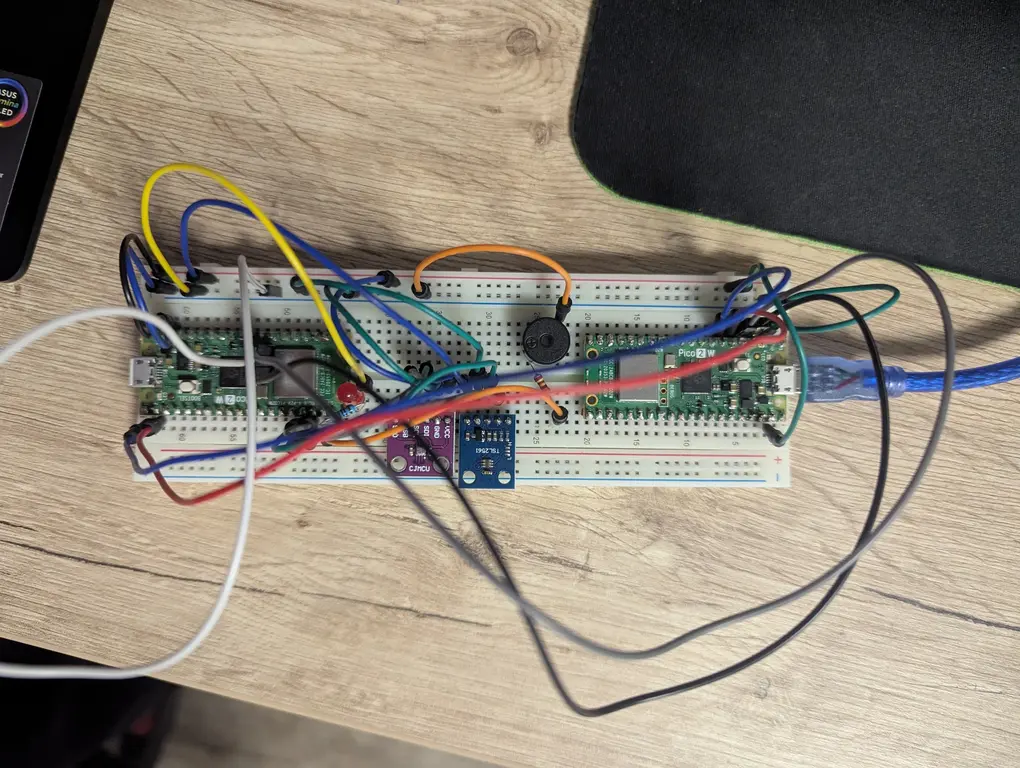
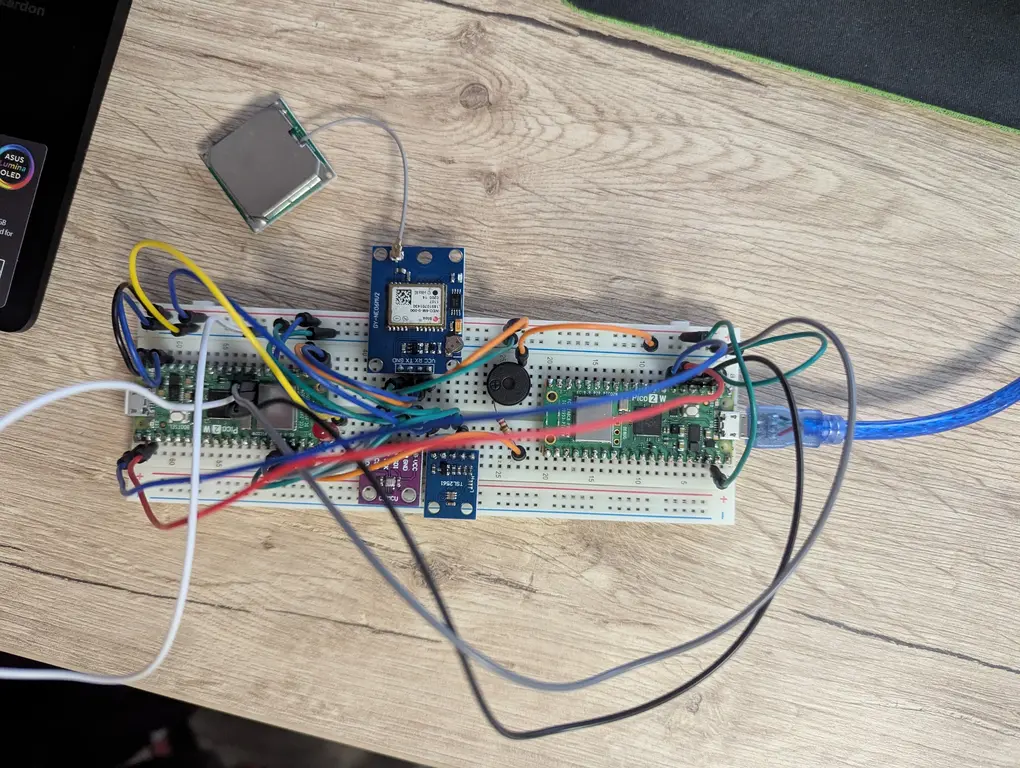
Add GPS module and libm

diff --git a/website/versioned_docs/version-acs_cc/project/2025/razvan.costea2205/index.md b/website/versioned_docs/version-acs_cc/project/2025/razvan.costea2205/index.md
@@ -64,8 +64,10 @@ One of the biggest environmental threats that the modern world faces is global w
 ![plot4](./other.webp)
 
 The first three photos showcase the main circuit: both Picos on the breadboard,
-connected accordingly, the BME280 and TSL2561 sensors, a buzzer and an LED.
-The 4th picture contains the LCD screen and the GPS module, to be wired up.
+connected accordingly, the BME280 and TSL2561 sensors, the GPS module, 
+a buzzer and an LED.
+The 4th picture contains the GPS module and the LCD screen, which is yet to be
+wired up.
 
 <iframe width="560" height="315" src="https://www.youtube.com/embed/5pqSocc1IFU" 
 frameborder="0" allowfullscreen></iframe>
@@ -117,7 +119,8 @@ The format is
 | [embassy-executor](https://crates.io/crates/embassy-executor) | An async/await executor | Create different tasks |
 | [lcd1602-rs](https://crates.io/crates/lcd1602-rs) | Display library | Used for my 16 characters on 2 lines LCD screen |
 | [heapless](https://crates.io/crates/heapless) | Statically allocated data | Used to write strings for my LCD |
-| [tsl256x](https://crates.io/crates/tsl256x) | Platform agnostic driver for TSL256x | Read raw data from TSL2561 | 
+| [tsl256x](https://crates.io/crates/tsl256x) | Platform agnostic driver for TSL256x | Read raw data from TSL2561 |
+| [libm](https://crates.io/crates/libm) | libm in pure Rust | Use mathematical functions, such as `pow` | 
 
 
 ## Links
